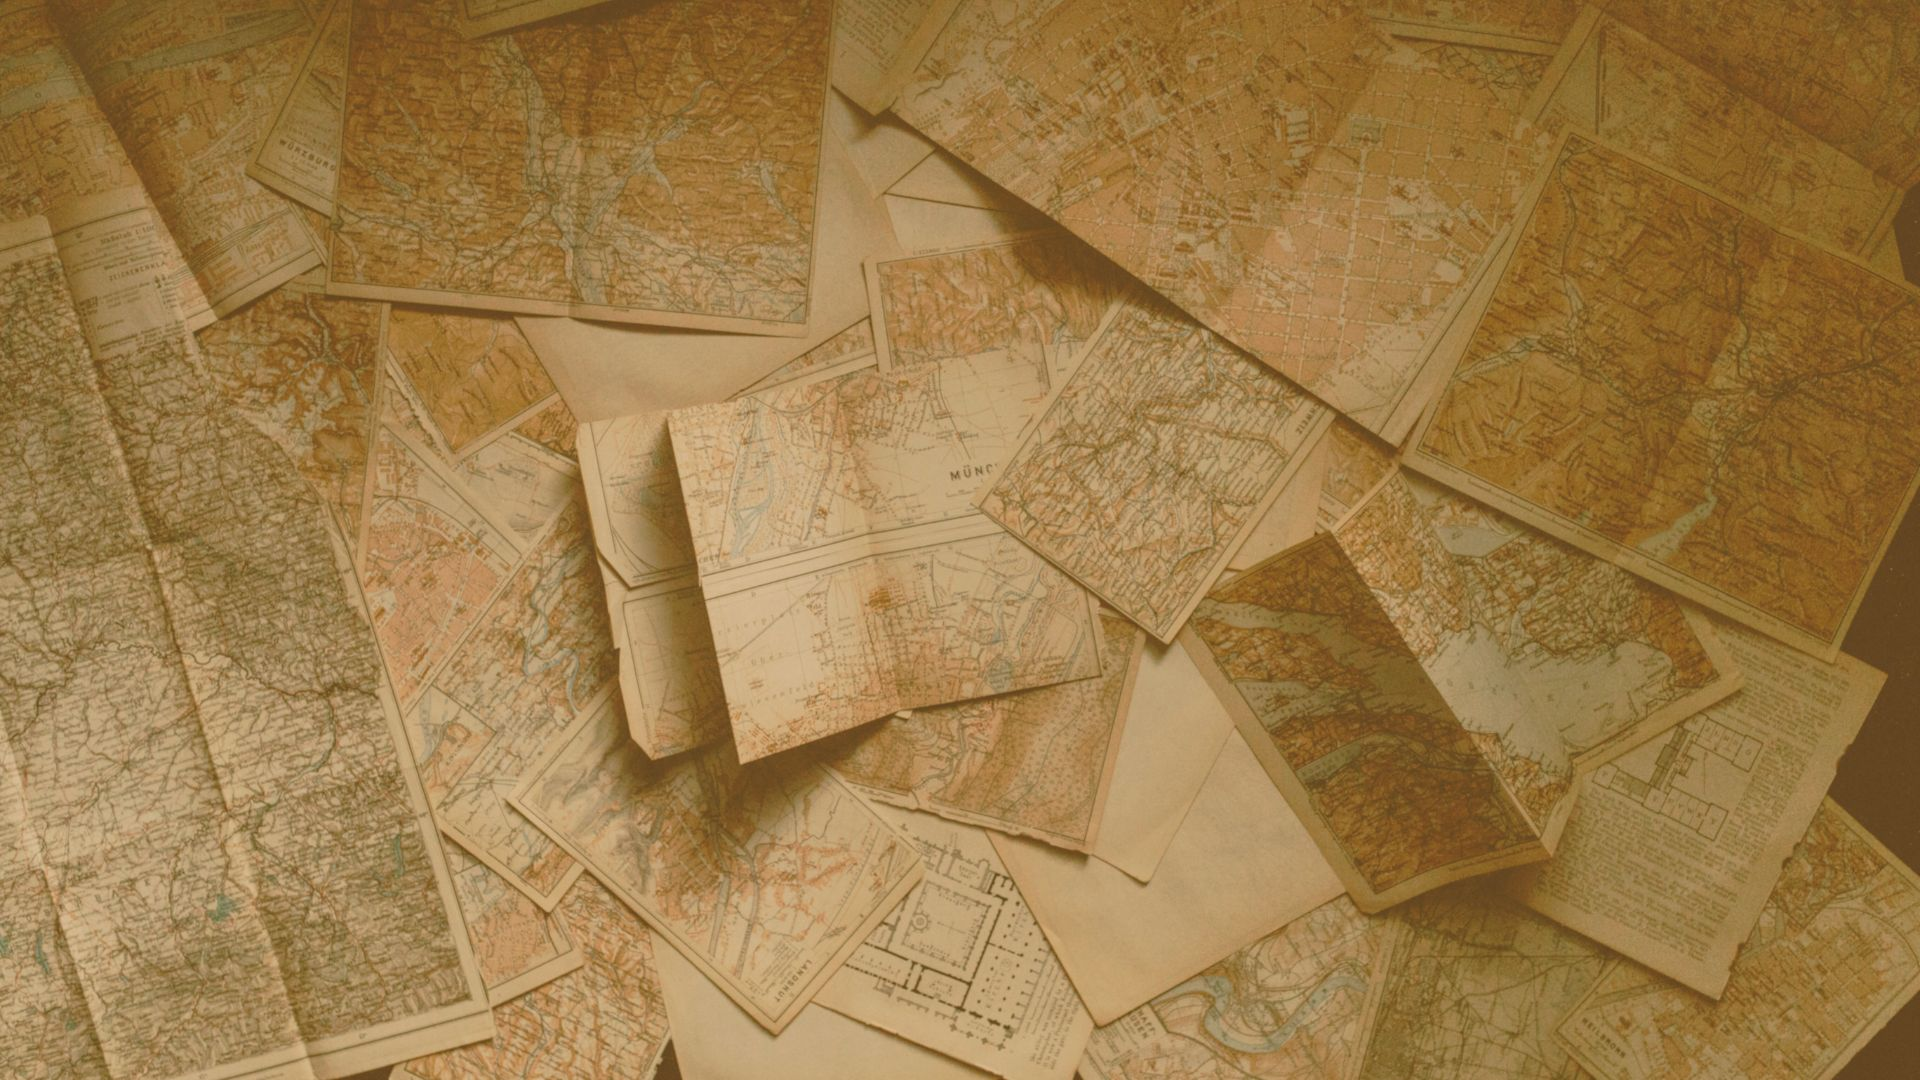
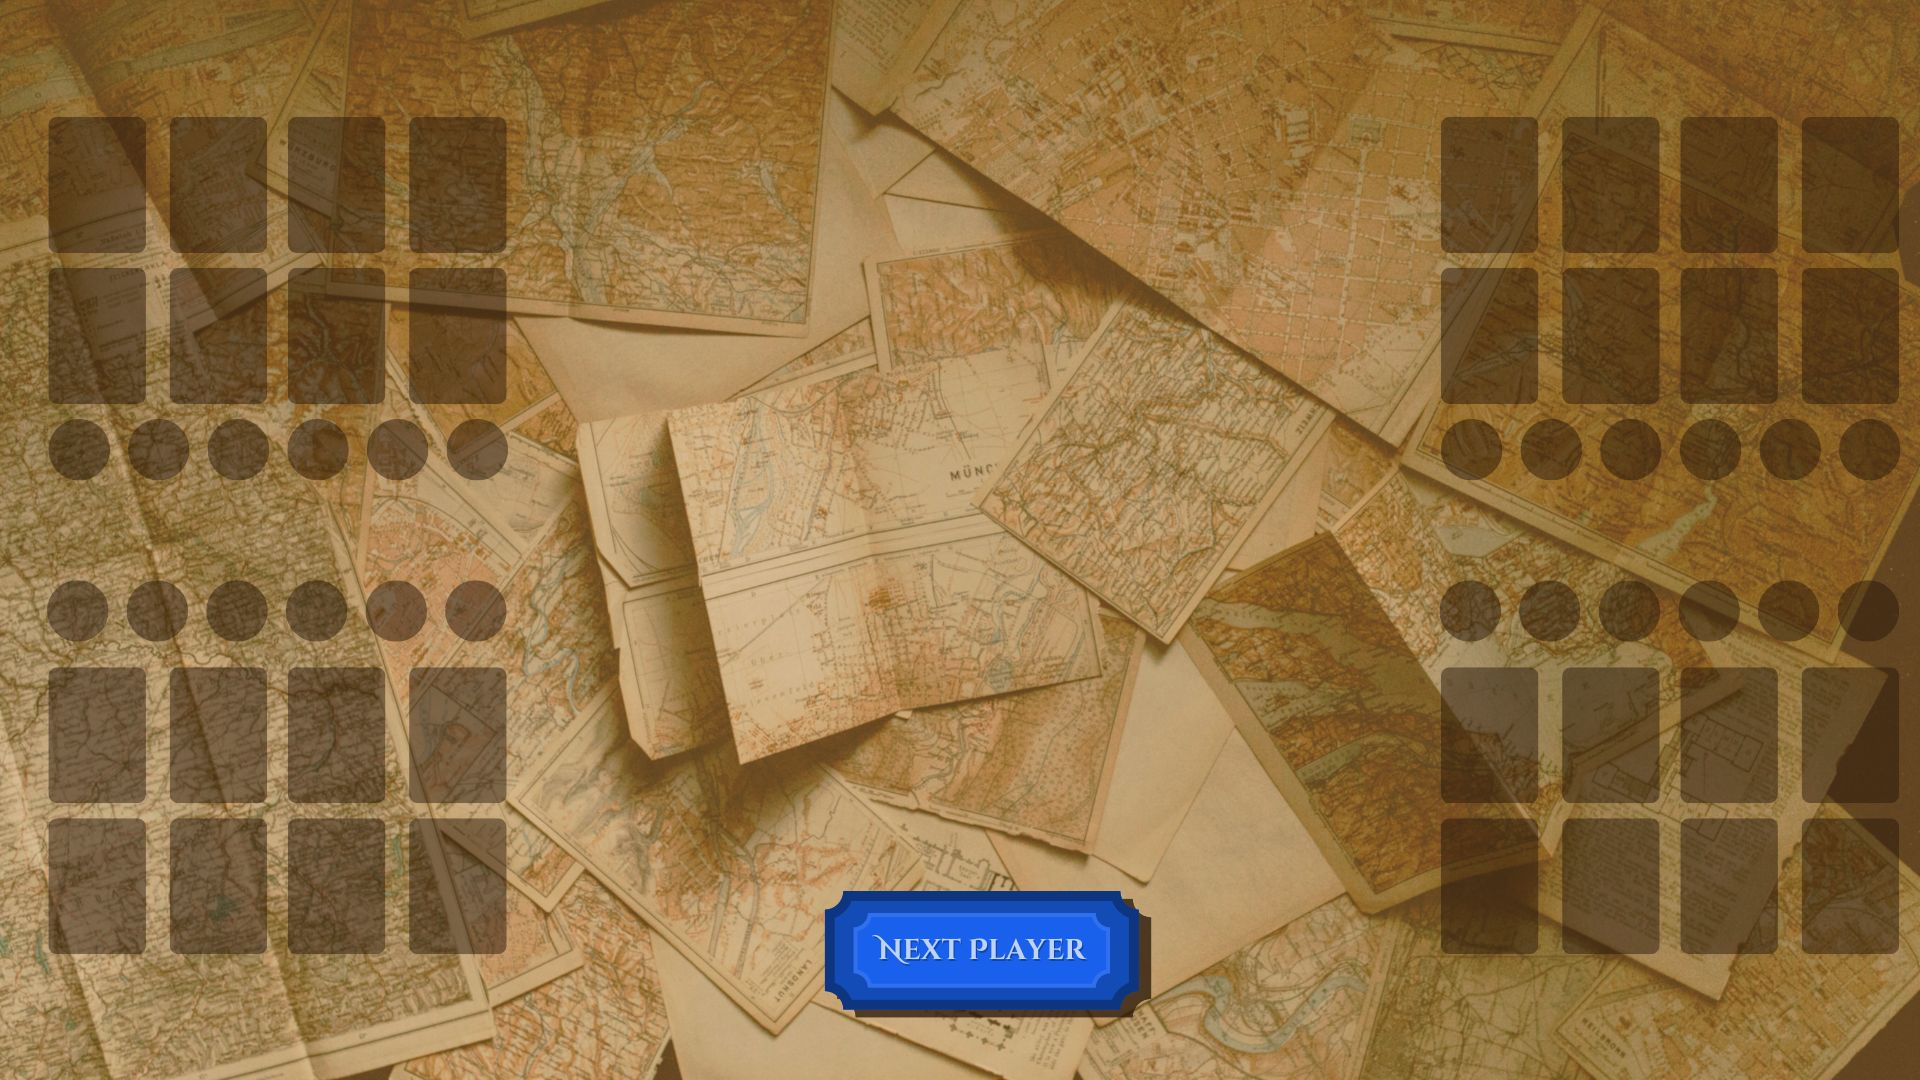
changes to splendorpanel

diff --git a/SplendorMain/src/Splendorpanel.java b/SplendorMain/src/Splendorpanel.java
@@ -10,15 +10,17 @@ import javax.swing.*;
 
 public class Splendorpanel extends JPanel implements MouseListener{
     private int pCount; //num of players
-    //private String tok1, tok2, tok3; //tokens players click on?
+   // private String tok1, tok2, tok3; //tokens players click on?
+    private HashMap<String,Integer> heldTokens; //three tokens held by current player when interacted with
     private BufferedImage bkg; //, rule1, rule2, rule3, back1, back2, back3; // background and rules, backs of three diff card types
     Logic logic; //logic class
-    JButton endTurn, rPrev, rNext, rClose; 
+    JButton endTurn, rPrev, rNext, rClose; //might not be using anymore
     private Card[][] mat;
     private Patron [] pat;
 
     //constructor
     public Splendorpanel(int p){
+        heldTokens = new HashMap<String,Integer>();
         mat = new Card[3][4];
         pCount = p;
         Logic logic = new Logic(pCount);
@@ -33,7 +35,7 @@ public class Splendorpanel extends JPanel implements MouseListener{
             //back2=
             //back3= (top row of cards)
         } catch (Exception e) {
-            System.out.println(e+"ur imgs are screwed");
+            System.out.println(e+"image issue splendor panel");
             return;
         }
         addMouseListener(this);
@@ -129,6 +131,8 @@ public class Splendorpanel extends JPanel implements MouseListener{
                 //g.drawImage(name + ".jpg", x, y, w, h, null);
 
             }
+            //x++ _;
+            //y++ _;
         }
     }
 
@@ -141,6 +145,20 @@ public class Splendorpanel extends JPanel implements MouseListener{
     }
 
     public void mousePressed(MouseEvent e){
+        int mouseX = e.getX();
+        int mouseY - e.getY();
+       /* if(x>= _ && x<= _ && y>= __ && y<= __){ area of each token, ex for white, may do loop
+           if(heldTokens.contains("White")){
+              heldTokens.replace("White", heldTokens.get("White"), heldTokens.get("White") +1 );
+           } else {
+               heldTokens.put("White", 1);
+           }
+          }
+
+
+       */
+
+        }
         // TODO Auto-generated method stub
     }
 

diff --git a/SplendorMain/src/Card.java b/SplendorMain/src/Card.java
@@ -15,7 +15,7 @@ public class Card{
         try {
             //img = ImageIO.read(Card.class.getResource("/Image/"+input+".png")); //pls edit when actual pictures are there
         } catch (Exception e) {
-            System.out.println(e+"ur imgs are screwed");
+            System.out.println(e+"ur imgs are screwed - Card");
             return;
         }
         String[] vars = input.split(" ");

diff --git a/SplendorMain/src/Logic.java b/SplendorMain/src/Logic.java
@@ -46,7 +46,7 @@ public class Logic {
         try {
             patCreate = new Scanner(pats);
         } catch (FileNotFoundException e) {
-            System.out.println(e+"your file is screwed");
+            System.out.println(e+"your file is screwed- patron");
             e.printStackTrace();
             return;
         }

diff --git a/SplendorMain/src/Deck.java b/SplendorMain/src/Deck.java
@@ -11,7 +11,7 @@ public class Deck {
         try {
             scan = new Scanner(card);
         } catch (FileNotFoundException e) {
-            System.out.println(e+"your file is screwed");
+            System.out.println(e+"your file is screwed - Deck");
             e.printStackTrace();
             return;
         }
